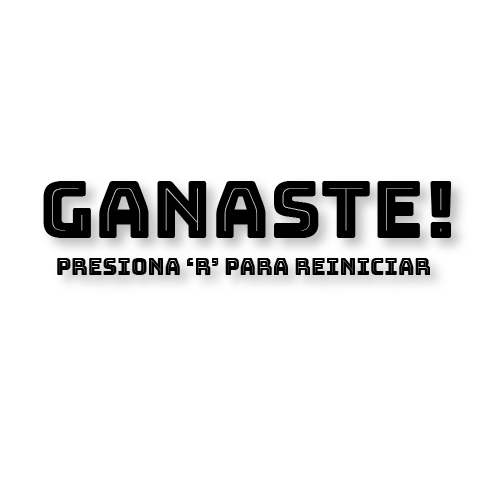
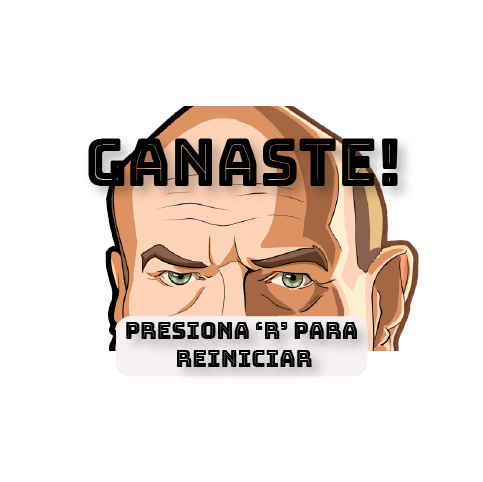
Resources changed

diff --git a/src/videogame/Game.java b/src/videogame/Game.java
@@ -73,9 +73,7 @@ public class Game implements Runnable {
     private void init() {
          display = new Display(title, getWidth(), getHeight());  
          Assets.init();
-         bar = new Bar(getWidth() / 2 - 50, getHeight() - 100, 100, 15, this);
-         //bar2 = new Bar (bar.getX(), bar.getY() + bar.getHeight()/2 , bar.getWidth(), bar.getHeight() - bar.getHeight()/2, this);
-         //bar2.setColor();
+         bar = new Bar(getWidth() / 2 - 50, getHeight() - 100, 100, 20, this);
          ball = new Ball(getWidth() / 2 - 10, getHeight() - 120, 20, 20, 0, 0, this);
          generateEnemies();
          display.getJframe().addKeyListener(keyManager);
@@ -257,12 +255,12 @@ public class Game implements Runnable {
     
     private void drawWin(Graphics g){
         //show Win
-        g.drawImage(Assets.win,0,0,getWidth(), getHeight(), null);
+        g.drawImage(Assets.win,(this.width / 2) - 200, (this.height / 2) - 200, 400 , 400, null);
     }
     
     private void drawGameOver(Graphics g){
        // Show Game Over
-        g.drawImage(Assets.gameOver, 0,0, getWidth(), getHeight(), null);
+        g.drawImage(Assets.gameOver,(this.width / 2) - 200, (this.height / 2) - 200, 400 , 400, null);
     }
     
     private void drawLost(Graphics g){

diff --git a/src/videogame/Brick.java b/src/videogame/Brick.java
@@ -19,8 +19,6 @@ public class Brick extends Item{
     private Game game;
     private int power;
 
-
-    
     public Brick(int x, int y, int width, int height, Game game) {
         super(x, y, width, height);
         this.game = game;
@@ -33,23 +31,22 @@ public class Brick extends Item{
 
     @Override
     public void render(Graphics g) {
-        if(power == 0)
-            g.setColor(Color.blue);
-        else if(power ==1){
-            g.setColor(Color.red);
+        switch (power) {
+            case 0:
+                g.drawImage(Assets.brick0, getX(), getY(), getWidth(), getHeight(), null);
+                break;
+            case 1:
+                g.drawImage(Assets.brick1, getX(), getY(), getWidth(), getHeight(), null);
+                break;
+            case 2:
+                g.drawImage(Assets.brick2, getX(), getY(), getWidth(), getHeight(), null);
+                break;
+            default:
+                break;
         }
-        else if(power==2){
-            g.setColor(Color.green);
-        }
-        
-        g.fillRect(getX(), getY(), getWidth(), getHeight());
     }
     
     
-    public void changeBrickColor(){
-    
-    
-    }
     
     
      public Game getGame() {

diff --git a/src/videogame/Assets.java b/src/videogame/Assets.java
@@ -14,6 +14,11 @@ import java.awt.image.BufferedImage;
 public class Assets {
     public static BufferedImage background; // to store background image
     public static BufferedImage bar;     // to store the bar image
+    
+     public static BufferedImage brick0; 
+     public static BufferedImage brick1; 
+     public static BufferedImage brick2; 
+       
     public static BufferedImage gameOver;
     public static BufferedImage pause;
     public static BufferedImage win;
@@ -31,8 +36,13 @@ public class Assets {
      * initializing the images of the game
      */
     public static void init() {
-        background = ImageLoader.loadImage("/images/Background.jpg");
-        bar = ImageLoader.loadImage("/images/mario.png");
+        background = ImageLoader.loadImage("/images/Background.png");
+        bar = ImageLoader.loadImage("/images/player.png");
+        
+        brick0 = ImageLoader.loadImage("/images/brick0.png");
+        brick1 = ImageLoader.loadImage("/images/brick1.png");
+        brick2 = ImageLoader.loadImage("/images/brick2.png");
+        
         gameOver= ImageLoader.loadImage("/images/GameOver.png");
         win = ImageLoader.loadImage("/images/ganar.png");
         

diff --git a/src/videogame/Bar.java b/src/videogame/Bar.java
@@ -60,11 +60,6 @@ public class Bar extends Item{
      
     @Override
     public void render(Graphics g) {
-        g.setColor(Color.red);
-        
-        if(color)
-            g.setColor(Color.black);
-            
-        g.fillRect(getX(), getY(), getWidth(), getHeight());
+        g.drawImage(Assets.bar, getX(), getY(), getWidth(), getHeight(), null);
     }
 }
